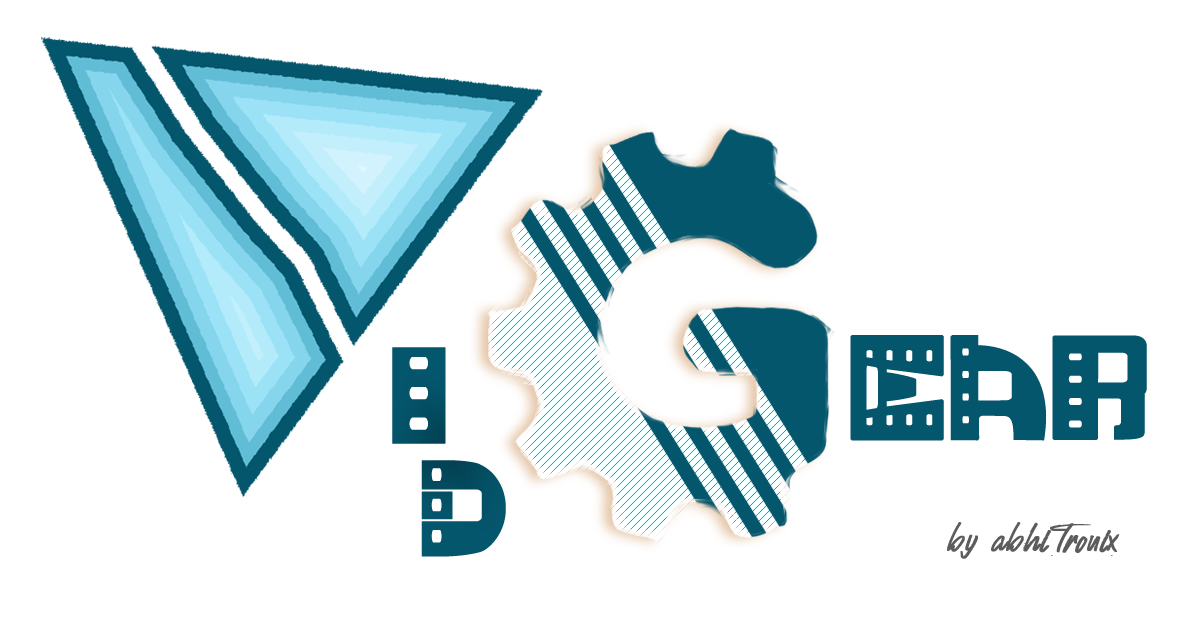
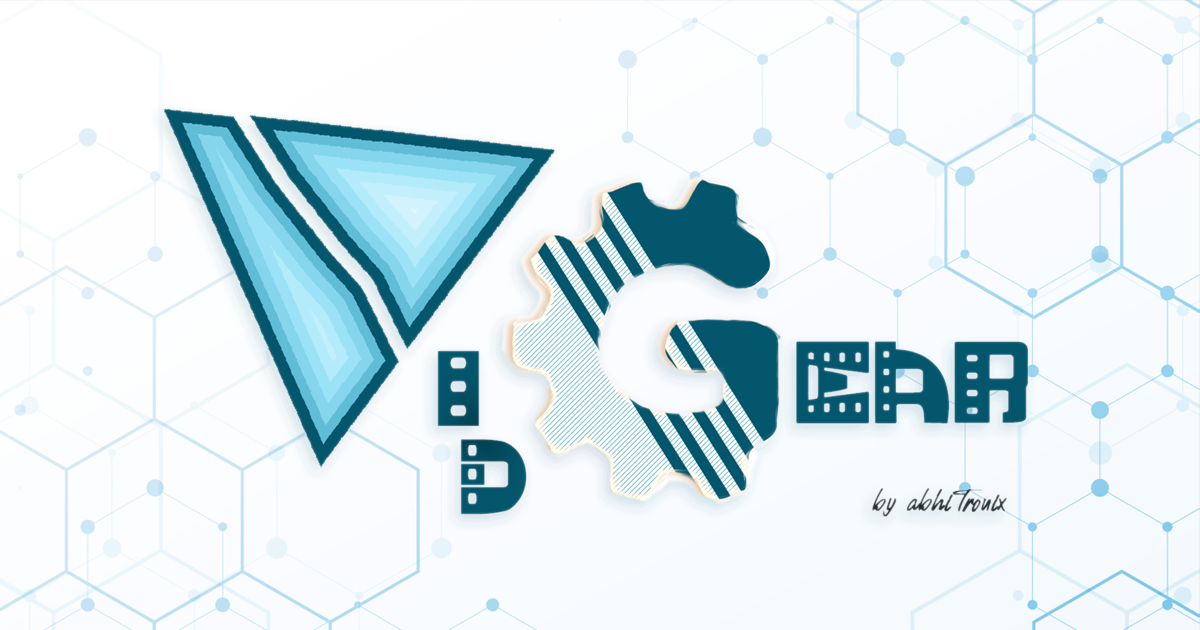
📝 Docs: Updated `changelog.md`.
- 🍱 Update vidgear's banner image.

diff --git a/docs/changelog.md b/docs/changelog.md
@@ -47,6 +47,13 @@ limitations under the License.
         * Added drop-shadow effects for its `slate` theme to improve visibility.
 
 ??? success "Updates/Improvements"  
+    - [x] CamGear:
+        * Replaced `youtube-dl` with `yt-dlp` as pafy backend.
+            + Implemented hack to trick pafy into assuming `yt-dlp` as `youtube-dl`.
+            + Using `sys.modules` to present `yt-dlp` as `youtube-dl`.
+            + `yt-dlp` python API functions exactly similar to `youtube-dl`.
+            + Replaced `youtube-dl` dependency with `yt-dlp`.
+            + Replaced `youtube-dl` imports with `yt-dlp`.
     - [x] StreamGear: 
         * Updated default `stream_count` internal dict key value to 1.
     - [x] Maintenance:
@@ -71,6 +78,7 @@ limitations under the License.
         * Added codecov secret token through `env` variable. 
         * Added wildcard to skip CI tests for doc(`.md`) files.
         * Added `.md` files to Codecov ignore list.
+        * Update vidgear's banner image.
 
 ??? danger "Breaking Updates/Changes"
     - [ ] `check_WriteAccess` will now return as invalid path if writing directory does not exists. This will effect output file handling in WriteGear and StreamGear APIs.
